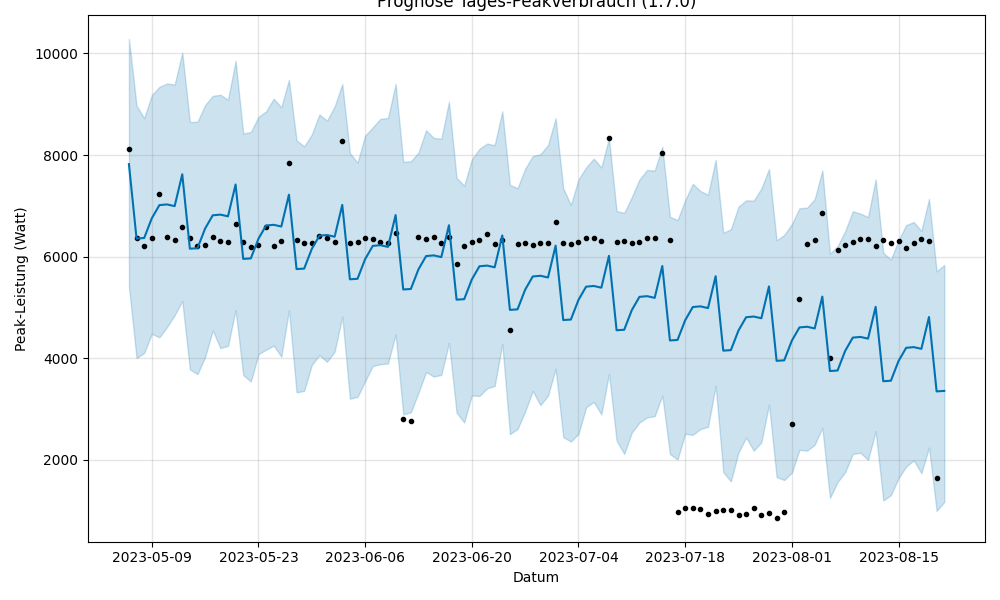
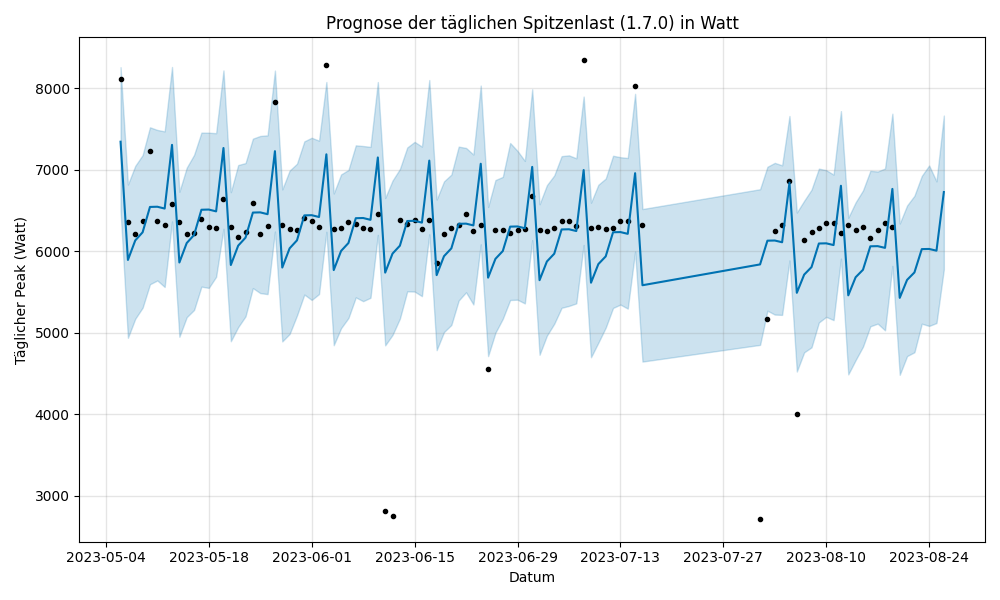
Implement multiple code changes to enhance functionality and improve performance

diff --git a/model_planning/forecast_peak_prophet.py b/model_planning/forecast_peak_prophet.py
@@ -1,57 +1,44 @@
-# model_planning/forecast_peak_prophet.py
-
 import pandas as pd
-import matplotlib.pyplot as plt
 from prophet import Prophet
+import matplotlib.pyplot as plt
 import os
+import numpy as np
 
-# -------------------------------
-# 1. Daten laden
-# -------------------------------
-print("[INFO] Lade transformierte CSV-Datei...")
+# Lade Daten
 df = pd.read_csv("data/full_data_transformed.csv", parse_dates=["timestamp"])
 
-# -------------------------------
-# 2. Tages-Peak berechnen (1.7.0)
-# -------------------------------
-print("[INFO] Berechne Tagesmaxima für 1.7.0...")
+# Tagespeaks berechnen
 df["date"] = df["timestamp"].dt.date
 daily_peaks = df.groupby("date")["1.7.0"].max().reset_index()
 daily_peaks.columns = ["ds", "y"]
 
-# Optional: Entferne Tage mit unrealistischen Werten (z. B. 0)
-daily_peaks = daily_peaks[daily_peaks["y"] > 0]
+# 2. Log-Transformation (aber nur gültige Werte)
+# --------------------------------------------
+daily_peaks = daily_peaks[daily_peaks["y"] > 0]  # Prophet mag keine 0 oder negativen Werte
+daily_peaks["y_log"] = np.log1p(daily_peaks["y"])
 
-# -------------------------------
-# 3. Prophet-Modell trainieren
-# -------------------------------
-print("[INFO] Trainiere Prophet-Modell...")
-model = Prophet(daily_seasonality=True)
+# Filtere unrealistische Werte
+# daily_peaks = daily_peaks[daily_peaks["y"] >= 2000]
+daily_peaks = daily_peaks[(daily_peaks['y'] >= 4000) & (daily_peaks['y'] <= 7000)]
+
+
+# Prophet-Modell
+model = Prophet(seasonality_mode='multiplicative')
+model.add_seasonality(name='weekly', period=7, fourier_order=3)
 model.fit(daily_peaks)
 
-# -------------------------------
-# 4. Prognose generieren
-# -------------------------------
-future = model.make_future_dataframe(periods=1)
+# Zukunft prognostizieren (7 Tage)
+future = model.make_future_dataframe(periods=7)
 forecast = model.predict(future)
 
-# -------------------------------
-# 5. Ergebnis visualisieren
-# -------------------------------
-print("[INFO] Speichere Forecast-Plot...")
+# Visualisierung
 fig = model.plot(forecast)
-plt.title("Prognose Tages-Peakverbrauch (1.7.0)")
+plt.title("Prognose der täglichen Spitzenlast (1.7.0) in Watt")
 plt.xlabel("Datum")
-plt.ylabel("Peak-Leistung (Watt)")
-output_path = os.path.join("visualize", "prophet_forecast_peak.png")
-fig.savefig(output_path)
+plt.ylabel("Täglicher Peak (Watt)")
+plt.tight_layout()
+# plt.savefig("visualize/prophet_forecast_peak_log.png")
+plt.savefig("visualize/prophet_forecast_peak_ignore_extrema_log.png")
 
-# -------------------------------
-# 6. Prognosewert ausgeben
-# -------------------------------
-predicted_value = forecast.iloc[-1]["yhat"]
-predicted_date = forecast.iloc[-1]["ds"].date()
-
-print("\n=== PROPHET PROGNOSE ===")
-print(f"Prognostizierter Peak am {predicted_date}: {predicted_value:.2f} Watt")
-print(f"[INFO] Plot gespeichert unter: {output_path}")
+# Ergebnis
+print(f"Prognostizierter Peak am {forecast['ds'].iloc[-1]}: {forecast['yhat'].iloc[-1]:.2f} Watt")

diff --git a/daypeak.py b/daypeak.py
@@ -1,0 +1,37 @@
+# Umgebung wurde zurückgesetzt. Imports und Code erneut ausführen.
+import pandas as pd
+import matplotlib.pyplot as plt
+import os
+
+# Pfad zur transformierten Datei
+csv_path = os.path.join("data", "full_data_transformed.csv")
+
+# CSV laden
+print("[INFO] Lade transformierte CSV-Datei...")
+df = pd.read_csv(csv_path, parse_dates=["timestamp"])
+
+# Tagespeaks berechnen
+print("[INFO] Berechne Tages-Peaks (1.7.0)...")
+df['date'] = df['timestamp'].dt.date
+daily_peaks = df.groupby('date')['1.7.0'].max().reset_index()
+daily_peaks.rename(columns={'1.7.0': 'daily_peak_watt'}, inplace=True)
+
+# Deskriptive Statistik
+print("[INFO] Berechne deskriptive Statistik...")
+stats = daily_peaks['daily_peak_watt'].describe()
+
+# Visualisierung
+plt.figure(figsize=(12, 6))
+plt.plot(daily_peaks['date'], daily_peaks['daily_peak_watt'], marker='o', linestyle='-')
+plt.title('Tägliche Spitzenlast (1.7.0) in Watt')
+plt.xlabel('Datum')
+plt.ylabel('Peak (Watt)')
+plt.xticks(rotation=45)
+plt.tight_layout()
+
+# Plot speichern
+plot_path = os.path.join("visualize", "daily_peak_analysis.png")
+plt.savefig(plot_path)
+plt.close()
+
+stats, plot_path
